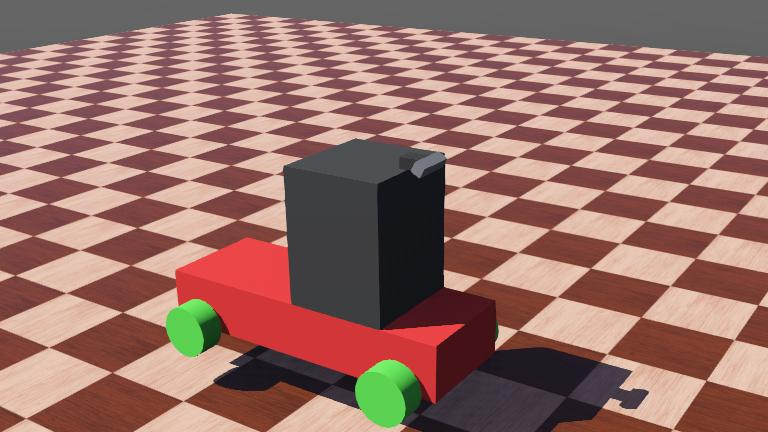
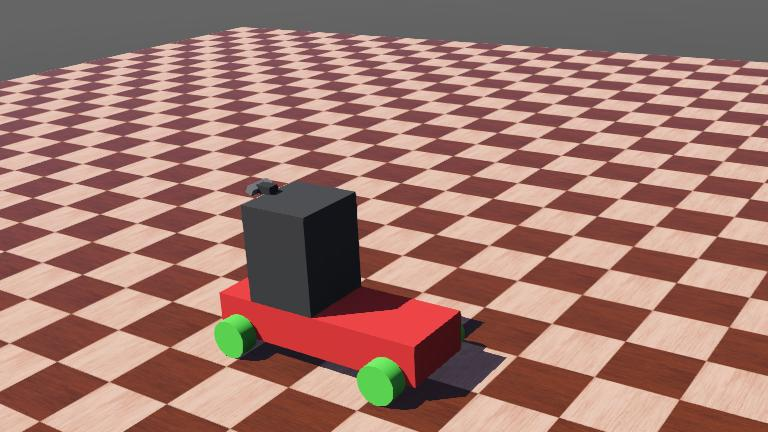
Fix - Fix Physics Error for Prototype Rover

diff --git a/controllers/rover_controller/rover_controller.py b/controllers/rover_controller/rover_controller.py
@@ -1,55 +1,34 @@
 from controller import Robot, Keyboard
-import numpy as np
-import cv2
 
-# 1. เริ่มต้นการเชื่อมต่อ
 robot = Robot()
 TIME_STEP = int(robot.getBasicTimeStep())
-
-# 2. เปิดใช้งาน Keyboard
 keyboard = robot.getKeyboard()
 keyboard.enable(TIME_STEP)
 
-# 3. ตั้งค่ามอเตอร์บังคับเลี้ยว (Steering)
 steer_right = robot.getDevice('steer1')
 steer_left = robot.getDevice('steer2')
 
-# 4. ตั้งค่ามอเตอร์ขับเคลื่อน (Driving Wheels)
 wheels = []
-wheel_names = ['wheel1', 'wheel2', 'wheel3', 'wheel4']
-for name in wheel_names:
+for name in ['wheel1', 'wheel2', 'wheel3', 'wheel4']:
     motor = robot.getDevice(name)
-    motor.setPosition(float('inf'))  # ตั้งค่าเป็นโหมดหมุนต่อเนื่อง
+    motor.setPosition(float('inf'))
     motor.setVelocity(0.0)
     wheels.append(motor)
 
-# 5. เปิดใช้งานกล้อง RGB
+# เปิดใช้งานกล้อง
 rgb_cam = robot.getDevice('d435_rgb')
 rgb_cam.enable(TIME_STEP)
 
-# ตั้งค่าพารามิเตอร์การขับขี่
-MAX_SPEED = 6.0         # ความเร็วสูงสุด (เรเดียน/วินาที)
-MAX_STEER = 0.5         # องศาเลี้ยวสูงสุด (เรเดียน) ~ 28 องศา
+MAX_SPEED = 6.0
+MAX_STEER = 0.5
 
-print("Rover Controller Started!")
-print("==========================")
-print("คลิกที่หน้าต่าง 3D ของ Webots เพื่อเริ่มควบคุม")
-print("W : เดินหน้า")
-print("S : ถอยหลัง")
-print("A : เลี้ยวซ้าย")
-print("D : เลี้ยวขวา")
-print("==========================")
+print("Rover is Ready! Click 3D view and use WASD.")
 
-# 6. Main Loop
 while robot.step(TIME_STEP) != -1:
-    # รีเซ็ตค่าความเร็วและองศาเลี้ยวในทุกๆ Time step
     target_speed = 0.0
     target_steer = 0.0
     
-    # อ่านค่าปุ่มที่ถูกกด
     key = keyboard.getKey()
-    
-    # ตรวจสอบว่าปุ่มใดถูกกดค้างไว้ (สามารถกด W+A พร้อมกันเพื่อเลี้ยวขณะเดินหน้าได้)
     while key != -1:
         if key == ord('W'):
             target_speed = MAX_SPEED
@@ -59,26 +38,10 @@ while robot.step(TIME_STEP) != -1:
             target_steer = MAX_STEER
         elif key == ord('D'):
             target_steer = -MAX_STEER
-            
-        key = keyboard.getKey() # อ่านค่าปุ่มถัดไปเผื่อกดหลายปุ่ม
+        key = keyboard.getKey()
         
-    # สั่งงานมอเตอร์ขับเคลื่อน
     for wheel in wheels:
         wheel.setVelocity(target_speed)
         
-    # สั่งงานมอเตอร์เลี้ยว
     steer_right.setPosition(target_steer)
     steer_left.setPosition(target_steer)
-    
-    # 7. ดึงภาพจากกล้องและแสดงผลด้วย OpenCV
-    raw_image = rgb_cam.getImage()
-    if raw_image is not None:
-        # Webots ส่งข้อมูลภาพมาในรูปแบบ 1D Array (BGRA format)
-        # เราต้องแปลงเป็น 3D Numpy Array เพื่อให้ OpenCV อ่านได้
-        image = np.frombuffer(raw_image, np.uint8).reshape((rgb_cam.getHeight(), rgb_cam.getWidth(), 4))
-        
-        # แสดงผลภาพ
-        cv2.imshow("Almondmatcha - D435 RGB Feed", image)
-        
-        # จำเป็นต้องมี waitKey เล็กน้อยเพื่อให้ OpenCV อัปเดตหน้าต่าง GUI
-        cv2.waitKey(1)
